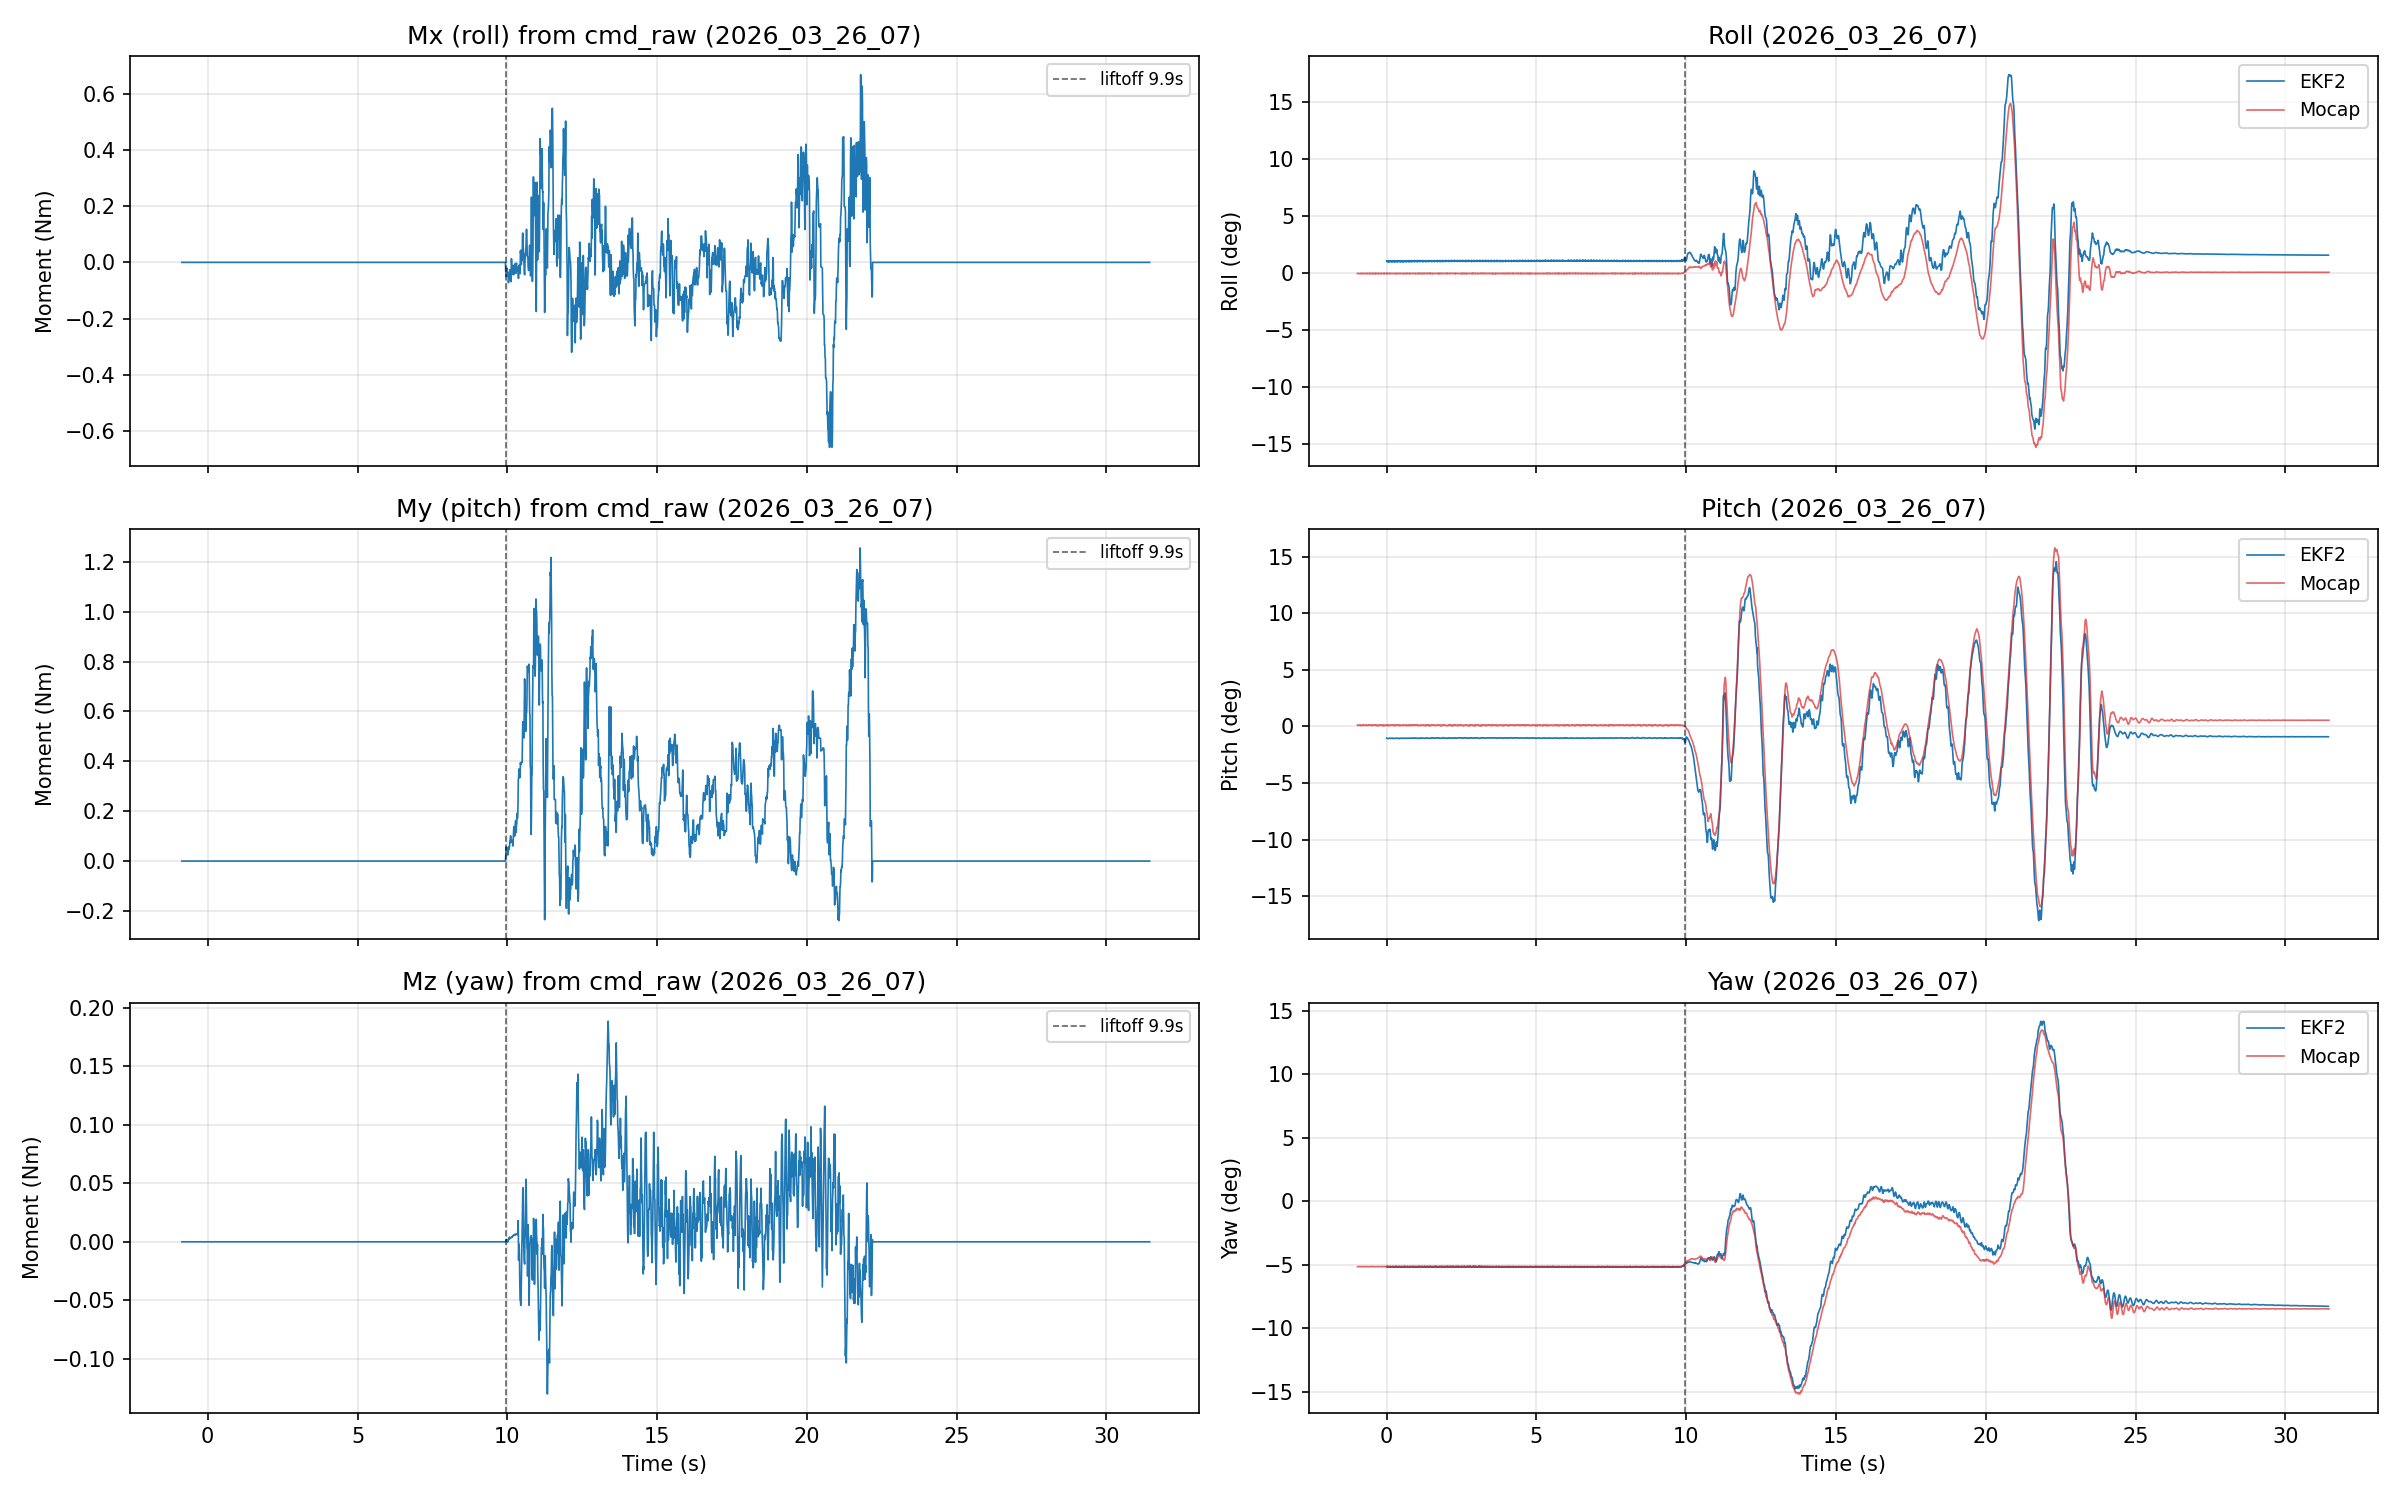
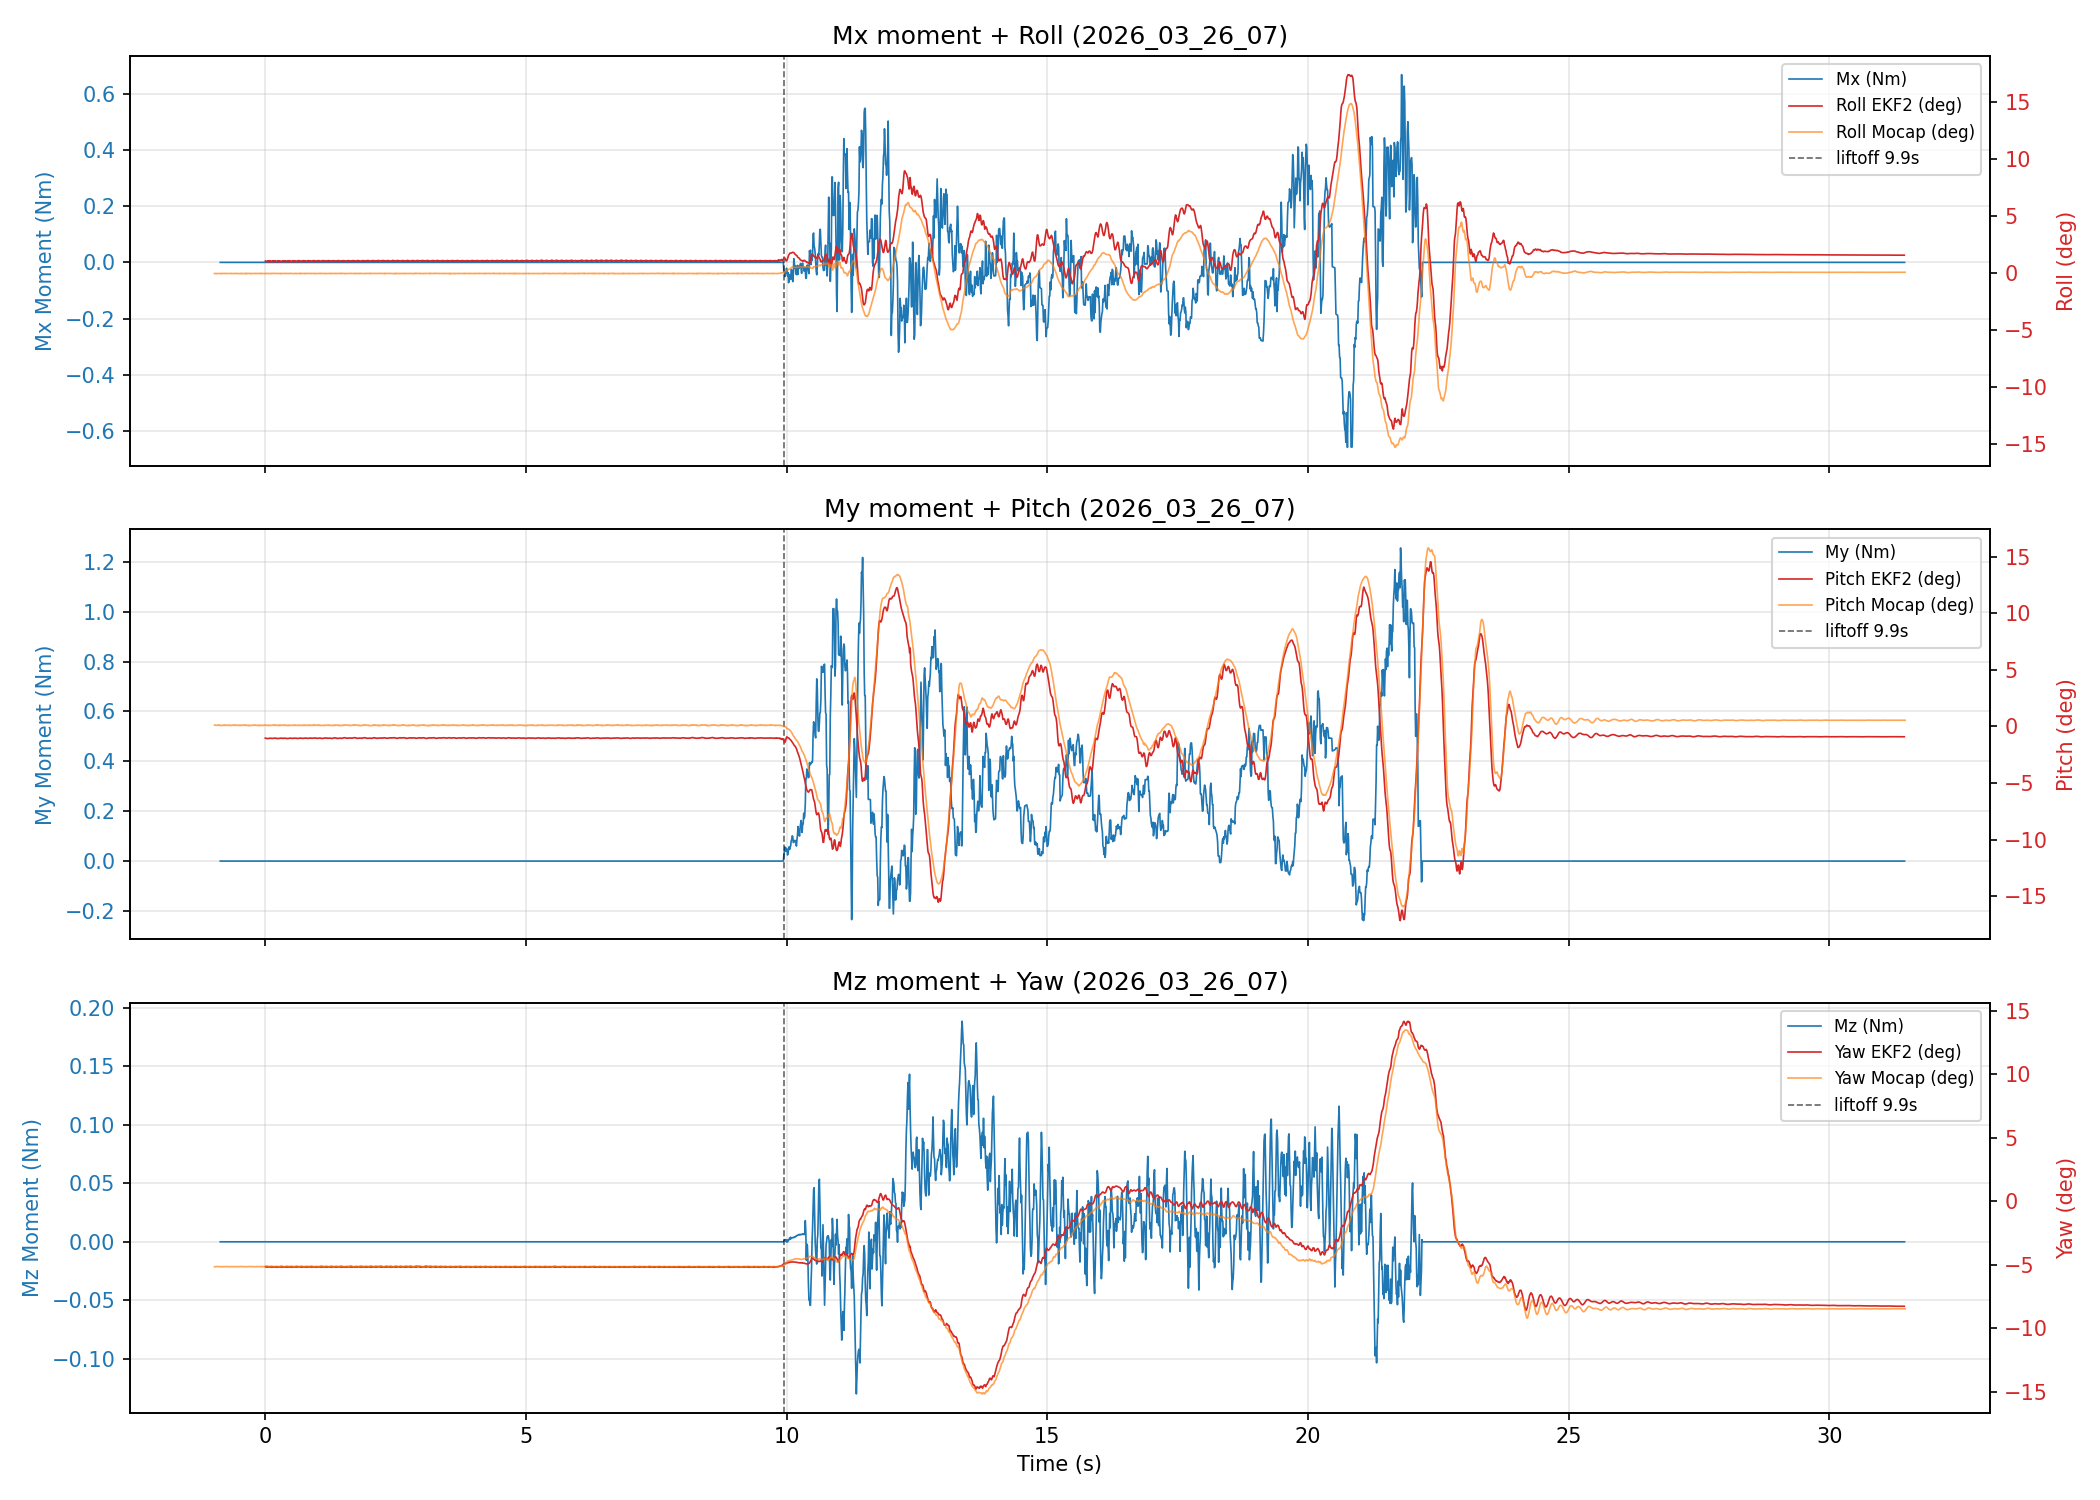
Change cmd_moments_rpy plot to 3-row dual-axis layout (moment + angle per axis)
Each row overlays MPC moment (left y-axis) with RPY angle (right y-axis)
for roll/pitch/yaw axes respectively.

https://claude.ai/code/session_015hDTXF7MWidPDJrsc9iZ1y

diff --git a/bag_folder/plot_2026_03_26.py b/bag_folder/plot_2026_03_26.py
@@ -256,37 +256,37 @@ def plot_bag(bag_name, db_path):
             liftoff_t = d['cmd_t'][j]
             break
 
-    # ── 2. cmd_raw moment + angle paired by axis (3 rows x 2 cols) ──
-    fig, axes = plt.subplots(3, 2, figsize=(16, 10), sharex=True)
+    # ── 2. cmd_raw moment + angle paired by axis (3 rows, dual y-axis) ──
+    fig, axes = plt.subplots(3, 1, figsize=(14, 10), sharex=True)
 
-    for i, (m_label, m_key, a_label, ekf_key, mocap_key) in enumerate([
-        ('Mx (roll)', 'cmd_Mx', 'Roll', 'ekf_roll', 'mocap_roll'),
-        ('My (pitch)', 'cmd_My', 'Pitch', 'ekf_pitch', 'mocap_pitch'),
-        ('Mz (yaw)', 'cmd_Mz', 'Yaw', 'ekf_yaw', 'mocap_yaw'),
+    for i, (m_label, m_key, a_label, ekf_key, mocap_key, m_color, a_color) in enumerate([
+        ('Mx', 'cmd_Mx', 'Roll', 'ekf_roll', 'mocap_roll', 'tab:blue', 'tab:red'),
+        ('My', 'cmd_My', 'Pitch', 'ekf_pitch', 'mocap_pitch', 'tab:blue', 'tab:red'),
+        ('Mz', 'cmd_Mz', 'Yaw', 'ekf_yaw', 'mocap_yaw', 'tab:blue', 'tab:red'),
     ]):
-        # Left: moment
-        ax = axes[i, 0]
-        ax.plot(d['cmd_t'], d[m_key], 'tab:blue', lw=0.8)
-        if liftoff_t is not None:
-            ax.axvline(liftoff_t, color='k', ls='--', lw=0.8, alpha=0.6, label=f'liftoff {liftoff_t:.1f}s')
-            ax.legend(loc='upper right', fontsize=8)
-        ax.set_ylabel('Moment (Nm)')
-        ax.set_title(f'{m_label} from cmd_raw ({bag_name})')
-        ax.grid(True, alpha=0.3)
+        ax1 = axes[i]
+        ln1 = ax1.plot(d['cmd_t'], d[m_key], color=m_color, lw=0.8, label=f'{m_label} (Nm)')
+        ax1.set_ylabel(f'{m_label} Moment (Nm)', color=m_color)
+        ax1.tick_params(axis='y', labelcolor=m_color)
+        ax1.grid(True, alpha=0.3)
 
-        # Right: angle
-        ax = axes[i, 1]
-        ax.plot(d['odom_t'], d[ekf_key], 'tab:blue', lw=0.8, label='EKF2')
-        ax.plot(d['mocap_t'], d[mocap_key], 'tab:red', lw=0.8, alpha=0.7, label='Mocap')
-        if liftoff_t is not None:
-            ax.axvline(liftoff_t, color='k', ls='--', lw=0.8, alpha=0.6)
-        ax.set_ylabel(f'{a_label} (deg)')
-        ax.set_title(f'{a_label} ({bag_name})')
-        ax.legend(loc='upper right', fontsize=9)
-        ax.grid(True, alpha=0.3)
+        ax2 = ax1.twinx()
+        ln2 = ax2.plot(d['odom_t'], d[ekf_key], color=a_color, lw=0.8, label=f'{a_label} EKF2 (deg)')
+        ln3 = ax2.plot(d['mocap_t'], d[mocap_key], color='tab:orange', lw=0.8, alpha=0.7, label=f'{a_label} Mocap (deg)')
+        ax2.set_ylabel(f'{a_label} (deg)', color=a_color)
+        ax2.tick_params(axis='y', labelcolor=a_color)
 
-    axes[2, 0].set_xlabel('Time (s)')
-    axes[2, 1].set_xlabel('Time (s)')
+        if liftoff_t is not None:
+            ax1.axvline(liftoff_t, color='k', ls='--', lw=0.8, alpha=0.6, label=f'liftoff {liftoff_t:.1f}s')
+
+        lns = ln1 + ln2 + ln3
+        if liftoff_t is not None:
+            lns += ax1.get_lines()[-1:]  # liftoff vline
+        labs = [l.get_label() for l in lns]
+        ax1.legend(lns, labs, loc='upper right', fontsize=8)
+        ax1.set_title(f'{m_label} moment + {a_label} ({bag_name})')
+
+    axes[2].set_xlabel('Time (s)')
 
     plt.tight_layout()
     out = f'{base}_cmd_moments_rpy.png'
